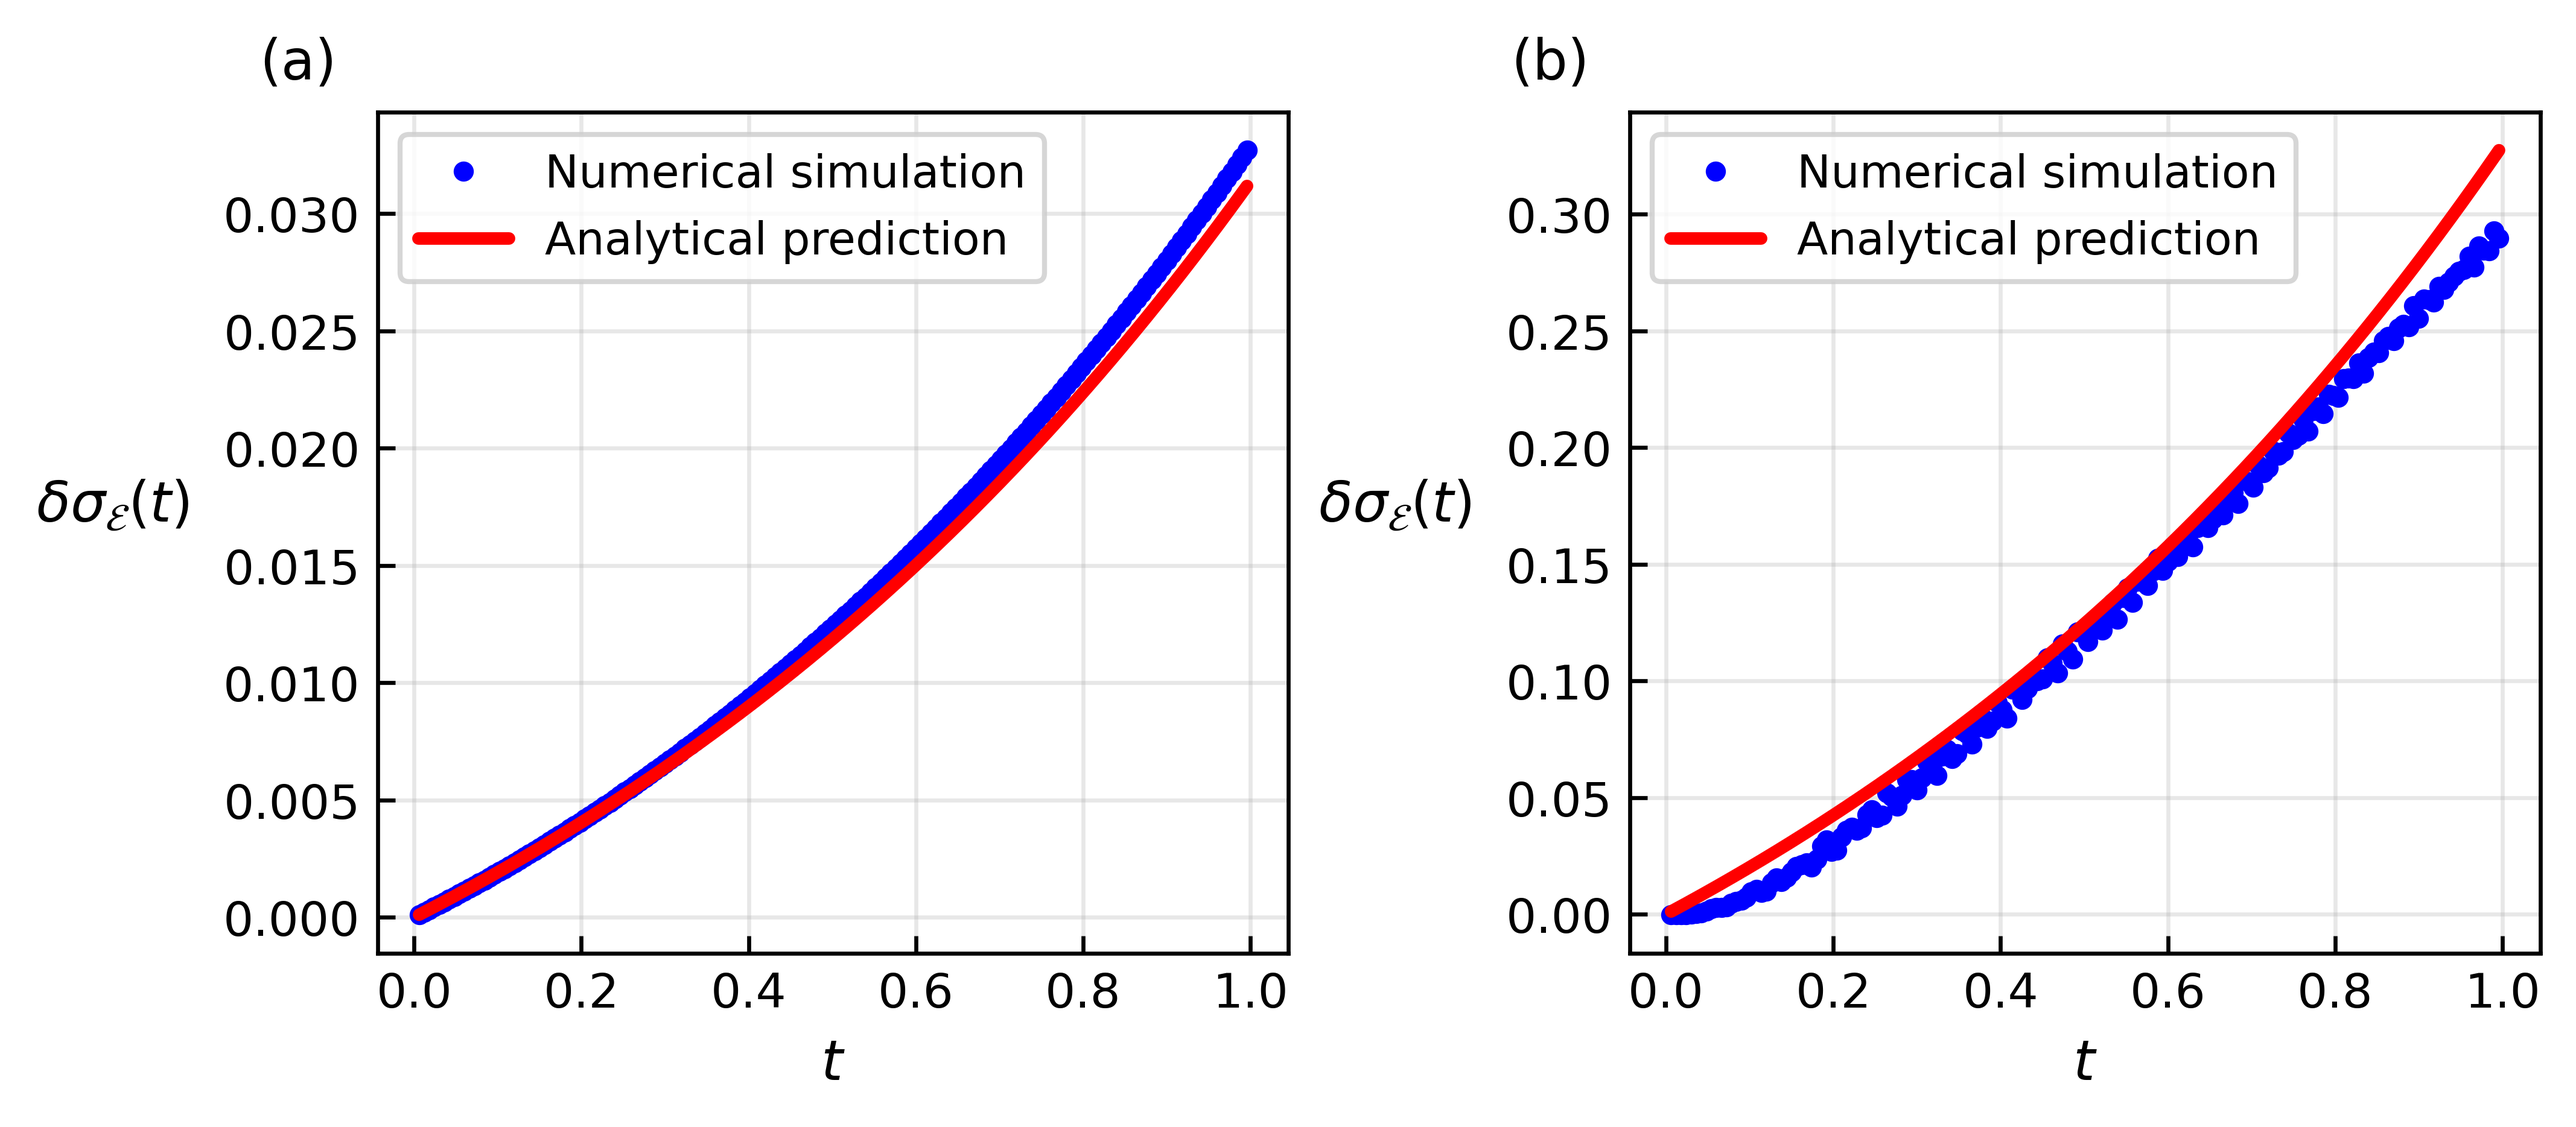
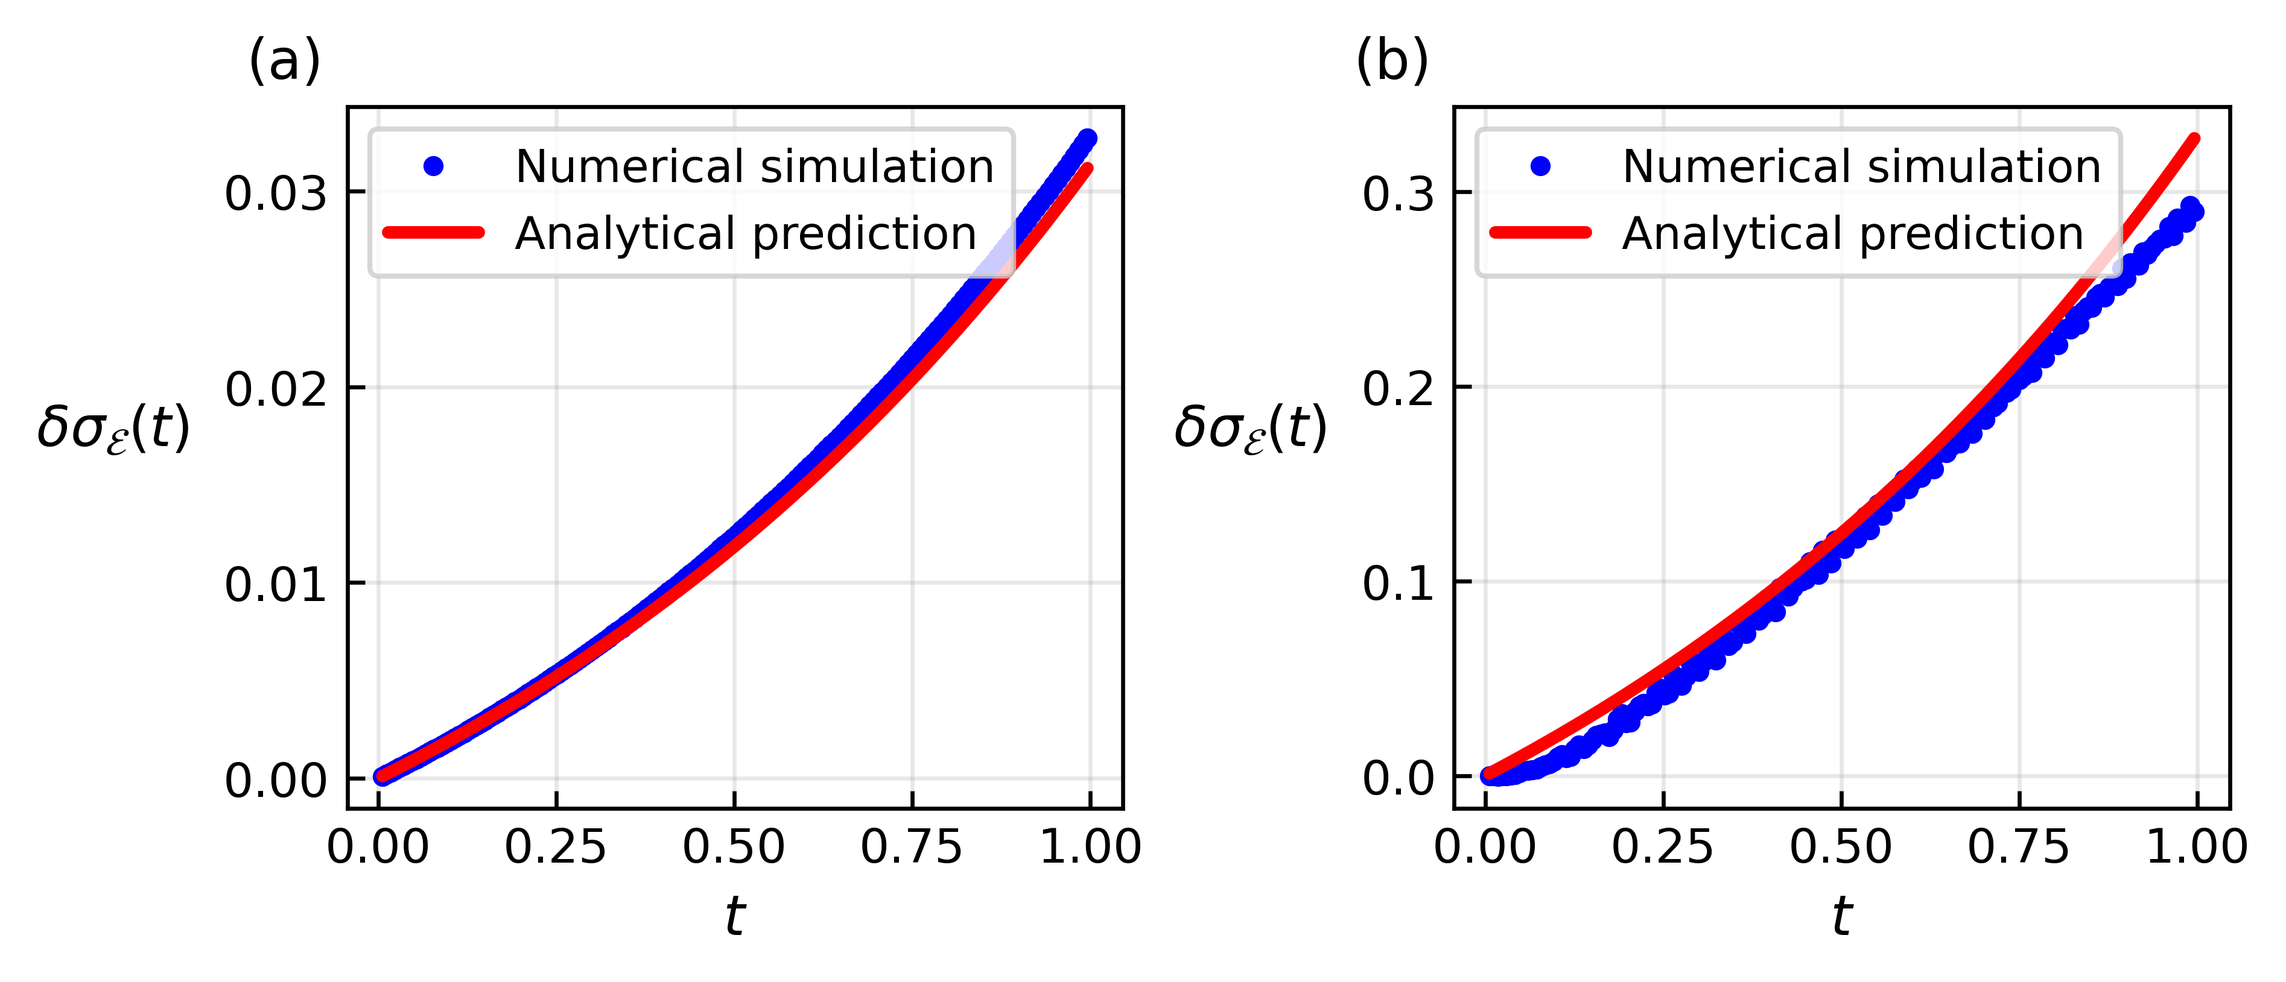
paper: apply compact horizontal figure layout

diff --git a/paper/main_revised.tex b/paper/main_revised.tex
@@ -1006,7 +1006,8 @@ On the other hand, the oscillations in Figs.~\ref{fig:bh_p1}(c,d) are already pr
 Since these wave packets are initialized inside the black hole, they already have overlap with the doubler branch indicated in Fig.~\ref{fig:doubler_fft}(a).
 Although the $p=0$ model also contains a doubler branch near $k=\pi$, the FFT analysis shows a larger doubler-mode peak for $p=1$ in the black-hole interior, explaining the more pronounced oscillations in Figs.~\ref{fig:bh_p1}(c,d).
 \begin{figure*}[tbp]
-\includegraphics[width=\textwidth]{figure/doubler_fft.png}
+\centering
+\includegraphics[width=0.82\textwidth]{figure/doubler_fft.png}
 \caption{Excitation of doubler modes in the oscillatory wave-packet dynamics for $p=1$.
 (a) Local dispersion relation at $\beta=1.2$, representative of the black-hole interior.
 The red circles mark the low-energy crossings at $k=\pm k_d$, corresponding to the doubler modes, where $k_d\simeq1.171$.
@@ -1030,7 +1031,8 @@ In practice, we fit the numerical data to $a(e^{\kappa_{\rm fit}t}-1)$, where $a
 
 For the surface-gravity extraction (Fig.~\ref{fig:sg}), we use $A=1$, $B=1$, $C=1$, $x_0=\pi$ (so $x_h=x_0$, $\kappa=|\beta'(x_h)|=1$, and $j_h=0.5L$), $j_0=245$, $\sigma=0.003L$, and fit the data over the time interval $t\in[0,1]$.
 \begin{figure*}[tbp]
-\includegraphics[width=\textwidth]{figure/sg.png}
+\centering
+\includegraphics[width=0.82\textwidth]{figure/sg.png}
 \caption{Extraction of surface gravity from wave-packet broadening ($L=500$, $A=B=C=1$, $x_0=\ell /2$, $j_0=245$, $\sigma=0.003L$, with the fit performed over $t\in[0,1]$). Blue dots show the numerical energy-density-weighted width $\delta\sigma_{\mathcal E}(t)$ defined in Eq.~\eqref{eq:energy_weighted_width}, and red curves show the analytical near-horizon scaling $a(e^{\kappa t}-1)$ with $\kappa=1$; the prefactor $a$ fixes the vertical scale. The fitted growth rates are obtained separately from $a(e^{\kappa_{\rm fit}t}-1)$. (a) Result for $p=0$, with $|\kappa_{\rm fit}-\kappa|/\kappa\approx3.3\%$. (b) Result for $p=1$, with $|\kappa_{\rm fit}-\kappa|/\kappa\approx4.9\%$ due to simultaneous wave packet dispersion. These percentages quantify the error in the fitted surface gravity, not the pointwise deviation of the red analytical curves.}
 \label{fig:sg}
 \end{figure*}
@@ -1046,12 +1048,14 @@ This discrepancy can be attributed to deformation of the wave packet as it broad
 In this section, we present the results of numerical simulations of particle dynamics in a white-hole spacetime. We consider the case in which a wave packet is incident from the exterior toward the interior of the white hole. We also discuss the finite-size effects that arise in this setup.
 For the white-hole dynamics, we use $A=C=-0.6$, $B=3$, $x_0=2\ell/3$ (white-hole horizon at $j_h\approx213$ for $L=300$), with $j_0=0.2L$ and $\sigma=0.05L$.
 \begin{figure*}[tbp]
-\includegraphics[width=\textwidth]{figure/WH_p=0.png}
+\centering
+\includegraphics[width=0.82\textwidth]{figure/WH_p=0.png}
 \caption{Wave packet dynamics in the white-hole geometry for $p=0$. (a) Space-time diagram of the vacuum-subtracted energy density $\delta\mathcal{E}_{j,+}$ [Eq.~\eqref{eq:branch_resolved_energy}] for $L=300$, $j_0=0.2L$, and $\sigma=0.05L$, with $\beta$ profile parameters $A=C=-0.6$, $B=3$, and $x_0=2\ell/3$ (white-hole horizon at $j_h\approx213$). The wave packet is compressed toward the white-hole horizon (black dotted line) and eventually reflected due to finite lattice resolution. (b) Lattice stagnation time $T_{\mathrm{lat}}$ versus $\ln L$ for various system sizes, using $A=C=-0.6$, $B=3$, $x_0=2\ell/3$, $j_0=0.2L$, and $\sigma=0.05L$. Blue dots show numerical simulation results; their approximately linear dependence on $\ln L$ is consistent with the logarithmic scaling of Eq.~\eqref{eq:T_logL}.}
 \label{fig:wh_p0}
 \end{figure*}
 \begin{figure*}[t!]
-\includegraphics[width=\textwidth]{figure/WH_p=1.png}
+\centering
+\includegraphics[width=0.88\textwidth]{figure/WH_p=1.png}
 \caption{White-hole dynamics for $p=1$ ($L=300$, $j_0=0.2L$, $\sigma=0.05L$, with the same $\beta$ profile as Fig.~\ref{fig:wh_p0}(a), $A=C=-0.6$, $B=3$, $x_0=2\ell/3$, and $j_h\approx213$). (a) Space-time diagram of the vacuum-subtracted energy density $\delta\mathcal{E}_{j,+}$. (b) Space-time diagram of $\delta\mathcal{E}_{j,-}$. (c) Space-time diagram of the mixed contribution $\delta\mathcal{E}_{j,\mathrm{int}}$ built from $\mathcal{H}_j^{\mathrm{int}}$. Unlike the $p=0$ case, the coupling between the right- and left-moving components allows partial transmission across the white-hole horizon (black dotted line).}
 \label{fig:wh_p1}
 \end{figure*}

diff --git a/paper_figures/make_surface_gravity.py b/paper_figures/make_surface_gravity.py
@@ -143,7 +143,7 @@ def main(argv: list[str] | None = None):
     p0 = PAPER_DATA / "H_m_sigmas_p0.txt"
     p1 = PAPER_DATA / "H_m_sigmas_p1.txt"
 
-    fig, axes = plt.subplots(1, 2, figsize=(7.0, 3.0), constrained_layout=True)
+    fig, axes = plt.subplots(1, 2, figsize=(6.2, 2.6), constrained_layout=True)
     if p0.exists():
         k0 = _panel(axes[0], p0, ell=ELL_DEFAULT, L=SG_SETTINGS["L"], panel_tag="(a)")
         print(f"[sg] p=0 kappa_fit = {k0:.4f}")

diff --git a/paper_figures/reproduce_panel.py b/paper_figures/reproduce_panel.py
@@ -519,7 +519,7 @@ def plot_fig6_composite() -> Path:
         from make_fig6b_scaling import draw_scaling_panel
 
     configure_matplotlib()
-    fig, axes = plt.subplots(1, 2, figsize=(7.0, 3.0), constrained_layout=True)
+    fig, axes = plt.subplots(1, 2, figsize=(6.2, 2.6), constrained_layout=True)
     draw_panel(fig, axes[0], PANEL_SPECS["fig6a"])
     draw_scaling_panel(axes[1])
 

diff --git a/paper_figures/make_doubler_fft.py b/paper_figures/make_doubler_fft.py
@@ -126,7 +126,7 @@ def main() -> None:
     import matplotlib.pyplot as plt
 
     configure_figure5_style()
-    fig, axes = plt.subplots(1, 2, figsize=(7.0, 3.0), constrained_layout=True)
+    fig, axes = plt.subplots(1, 2, figsize=(6.2, 2.6), constrained_layout=True)
     kd = draw_dispersion_panel(axes[0])
     draw_fft_panel(axes[1], kd)
 
